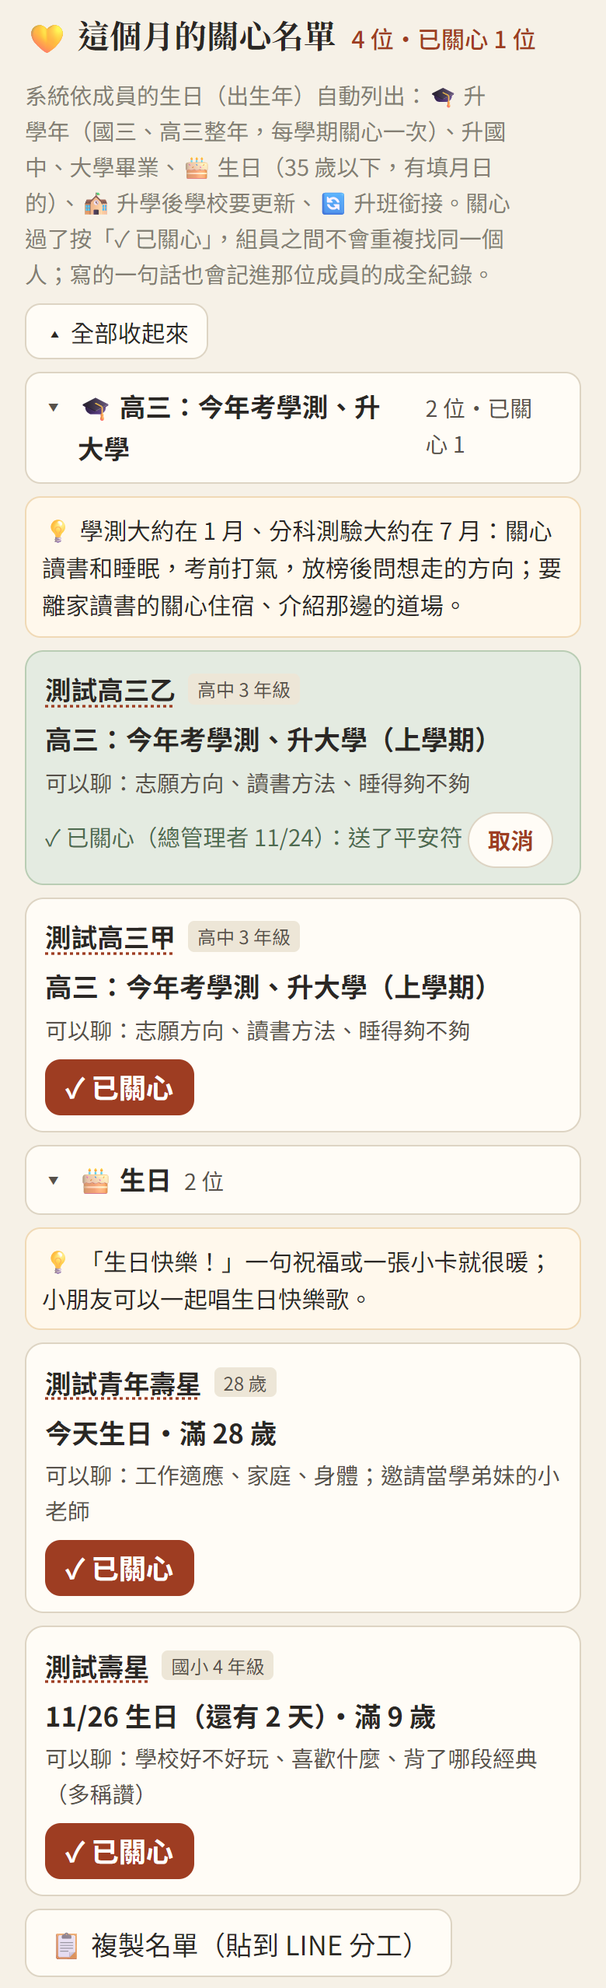
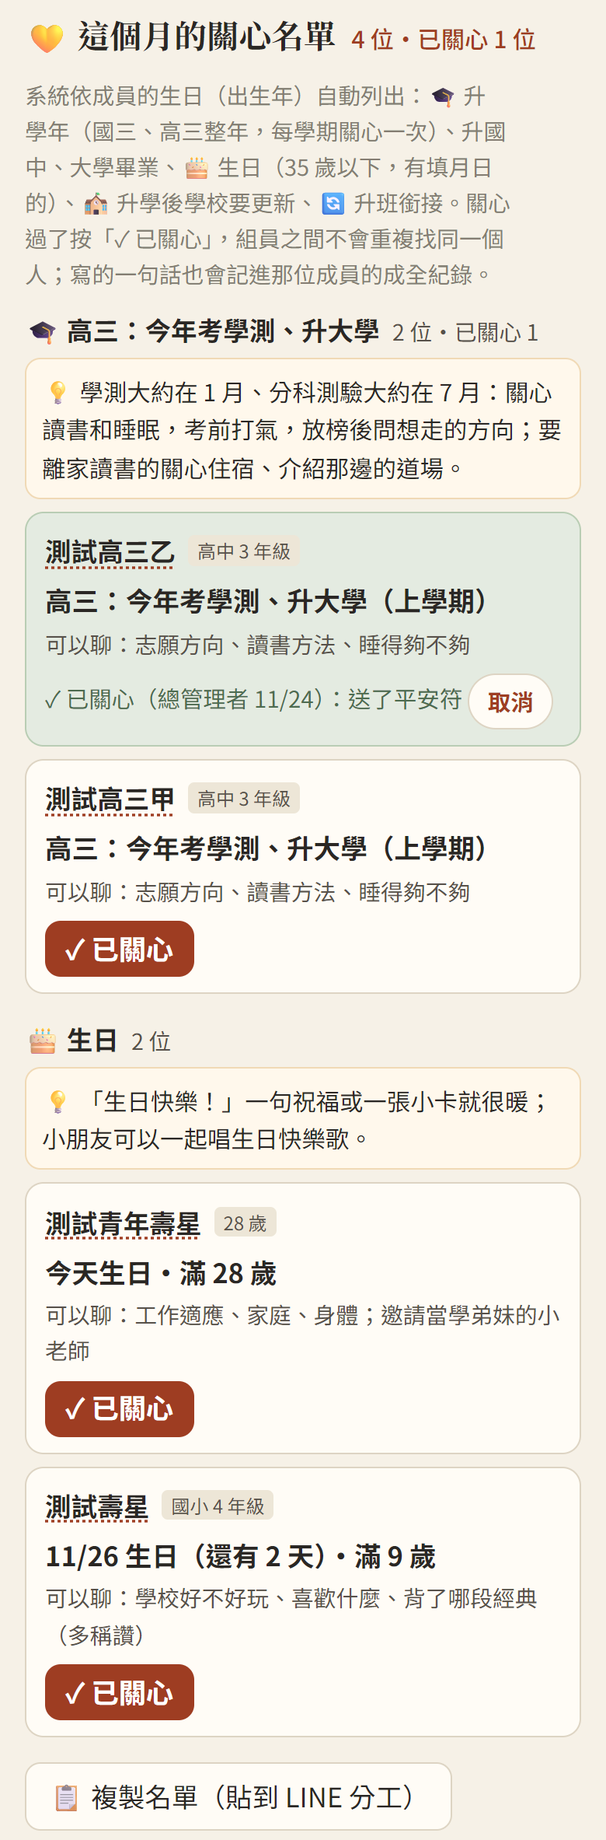
關心名單、關懷名單先顯示 5 位，下面全部打開／收起來

Changed region(s): [[0.0308, 0.0, 0.9846, 0.9873], [0.5231, 0.7096, 0.9231, 0.7713], [0.8615, 0.0, 0.8923, 0.0309]]

diff --git a/index.html b/index.html
@@ -23,7 +23,7 @@
   <link rel="preconnect" href="https://fonts.googleapis.com">
   <link rel="preconnect" href="https://fonts.gstatic.com" crossorigin>
   <link href="https://fonts.googleapis.com/css2?family=Noto+Sans+TC:wght@400;500;700&family=Noto+Serif+TC:wght@600;700&display=swap" rel="stylesheet">
-  <link rel="stylesheet" href="css/app.css?v=20261124d">
+  <link rel="stylesheet" href="css/app.css?v=20261124e">
   <script>try { var t = localStorage.getItem('duty-calendar:text-size'); if (t === 'l' || t === 'xl') document.documentElement.classList.add('text-' + t); } catch (e) {}</script>
 </head>
 <body class="splash-on">
@@ -118,71 +118,71 @@
   <script src="https://cdn.jsdelivr.net/npm/fullcalendar@6.1.21/index.global.min.js"></script>
   <script src="https://cdn.jsdelivr.net/npm/@fullcalendar/core@6.1.21/locales/zh-tw.global.min.js"></script>
   <!-- 改了 js、css 後把 ?v= 的日期換新，手機才不會用到舊的檔案（GitHub Pages 會快取 10 分鐘） -->
-  <script src="js/site.js?v=20261124d"></script>
-  <script src="js/region.js?v=20261124d"></script>
-  <script src="js/config.js?v=20261124d"></script>
-  <script src="js/api.js?v=20261124d"></script>
-  <script src="js/format.js?v=20261124d"></script>
-  <script src="js/member-suggest.js?v=20261124d"></script>
-  <script src="js/newcomer.js?v=20261124d"></script>
-  <script src="js/album.js?v=20261124d"></script>
-  <script src="js/member-file.js?v=20261124d"></script>
-  <script src="js/family.js?v=20261124d"></script>
-  <script src="js/lunar-util.js?v=20261124d"></script>
-  <script src="js/date-list.js?v=20261124d"></script>
-  <script src="js/share.js?v=20261124d"></script>
-  <script src="js/addcal.js?v=20261124d"></script>
-  <script src="js/duty-cache.js?v=20261124d"></script>
-  <script src="js/thanks-board.js?v=20261124d"></script>
-  <script src="js/calendar.js?v=20261124d"></script>
-  <script src="js/confirm.js?v=20261124d"></script>
-  <script src="js/reschedule.js?v=20261124d"></script>
-  <script src="js/signup.js?v=20261124d"></script>
-  <script src="js/duty-images.js?v=20261124d"></script>
-  <script src="js/roster-grid.js?v=20261124d"></script>
-  <script src="js/grid-page.js?v=20261124d"></script>
-  <script src="js/grid-image.js?v=20261124d"></script>
-  <script src="js/thanks-image.js?v=20261124d"></script>
-  <script src="js/celebrate.js?v=20261124d"></script>
-  <script src="js/duty.js?v=20261124d"></script>
-  <script src="js/mine.js?v=20261124d"></script>
-  <script src="js/venue-hours.js?v=20261124d"></script>
-  <script src="js/venue.js?v=20261124d"></script>
-  <script src="js/push.js?v=20261124d"></script>
-  <script src="js/admin.js?v=20261124d"></script>
-  <script src="js/admin-pages.js?v=20261124d"></script>
-  <script src="js/draft-editor.js?v=20261124d"></script>
-  <script src="js/group-fair.js?v=20261124d"></script>
-  <script src="js/admin-duties.js?v=20261124d"></script>
-  <script src="js/admin-accounts.js?v=20261124d"></script>
-  <script src="js/admin-site.js?v=20261124d"></script>
-  <script src="js/region-setup.js?v=20261124d"></script>
-  <script src="js/import-parse.js?v=20261124d"></script>
-  <script src="js/admin-import.js?v=20261124d"></script>
-  <script src="js/admin-people.js?v=20261124d"></script>
-  <script src="js/admin-hq.js?v=20261124d"></script>
-  <script src="js/stats-calc.js?v=20261124d"></script>
-  <script src="js/edu-stats.js?v=20261124d"></script>
-  <script src="js/edu-care.js?v=20261124d"></script>
-  <script src="js/admin-goals.js?v=20261124d"></script>
-  <script src="js/admin-venue.js?v=20261124d"></script>
-  <script src="js/admin-push.js?v=20261124d"></script>
-  <script src="js/tutorial.js?v=20261124d"></script>
-  <script src="js/help.js?v=20261124d"></script>
-  <script src="js/rollcall.js?v=20261124d"></script>
-  <script src="js/stats-export.js?v=20261124d"></script>
-  <script src="js/repair.js?v=20261124d"></script>
-  <script src="js/activity-report.js?v=20261124d"></script>
-  <script src="js/member-stats.js?v=20261124d"></script>
-  <script src="js/year-report.js?v=20261124d"></script>
-  <script src="js/admin-stats.js?v=20261124d"></script>
-  <script src="js/admin-report.js?v=20261124d"></script>
-  <script src="js/admin-recent-signups.js?v=20261124d"></script>
-  <script src="js/admin-notice.js?v=20261124d"></script>
-  <script src="js/admin-notify.js?v=20261124d"></script>
-  <script src="js/history-parse.js?v=20261124d"></script>
-  <script src="js/admin-history.js?v=20261124d"></script>
-  <script src="js/easy-mode.js?v=20261124d"></script>
-  <script src="js/app.js?v=20261124d"></script>
+  <script src="js/site.js?v=20261124e"></script>
+  <script src="js/region.js?v=20261124e"></script>
+  <script src="js/config.js?v=20261124e"></script>
+  <script src="js/api.js?v=20261124e"></script>
+  <script src="js/format.js?v=20261124e"></script>
+  <script src="js/member-suggest.js?v=20261124e"></script>
+  <script src="js/newcomer.js?v=20261124e"></script>
+  <script src="js/album.js?v=20261124e"></script>
+  <script src="js/member-file.js?v=20261124e"></script>
+  <script src="js/family.js?v=20261124e"></script>
+  <script src="js/lunar-util.js?v=20261124e"></script>
+  <script src="js/date-list.js?v=20261124e"></script>
+  <script src="js/share.js?v=20261124e"></script>
+  <script src="js/addcal.js?v=20261124e"></script>
+  <script src="js/duty-cache.js?v=20261124e"></script>
+  <script src="js/thanks-board.js?v=20261124e"></script>
+  <script src="js/calendar.js?v=20261124e"></script>
+  <script src="js/confirm.js?v=20261124e"></script>
+  <script src="js/reschedule.js?v=20261124e"></script>
+  <script src="js/signup.js?v=20261124e"></script>
+  <script src="js/duty-images.js?v=20261124e"></script>
+  <script src="js/roster-grid.js?v=20261124e"></script>
+  <script src="js/grid-page.js?v=20261124e"></script>
+  <script src="js/grid-image.js?v=20261124e"></script>
+  <script src="js/thanks-image.js?v=20261124e"></script>
+  <script src="js/celebrate.js?v=20261124e"></script>
+  <script src="js/duty.js?v=20261124e"></script>
+  <script src="js/mine.js?v=20261124e"></script>
+  <script src="js/venue-hours.js?v=20261124e"></script>
+  <script src="js/venue.js?v=20261124e"></script>
+  <script src="js/push.js?v=20261124e"></script>
+  <script src="js/admin.js?v=20261124e"></script>
+  <script src="js/admin-pages.js?v=20261124e"></script>
+  <script src="js/draft-editor.js?v=20261124e"></script>
+  <script src="js/group-fair.js?v=20261124e"></script>
+  <script src="js/admin-duties.js?v=20261124e"></script>
+  <script src="js/admin-accounts.js?v=20261124e"></script>
+  <script src="js/admin-site.js?v=20261124e"></script>
+  <script src="js/region-setup.js?v=20261124e"></script>
+  <script src="js/import-parse.js?v=20261124e"></script>
+  <script src="js/admin-import.js?v=20261124e"></script>
+  <script src="js/admin-people.js?v=20261124e"></script>
+  <script src="js/admin-hq.js?v=20261124e"></script>
+  <script src="js/stats-calc.js?v=20261124e"></script>
+  <script src="js/edu-stats.js?v=20261124e"></script>
+  <script src="js/edu-care.js?v=20261124e"></script>
+  <script src="js/admin-goals.js?v=20261124e"></script>
+  <script src="js/admin-venue.js?v=20261124e"></script>
+  <script src="js/admin-push.js?v=20261124e"></script>
+  <script src="js/tutorial.js?v=20261124e"></script>
+  <script src="js/help.js?v=20261124e"></script>
+  <script src="js/rollcall.js?v=20261124e"></script>
+  <script src="js/stats-export.js?v=20261124e"></script>
+  <script src="js/repair.js?v=20261124e"></script>
+  <script src="js/activity-report.js?v=20261124e"></script>
+  <script src="js/member-stats.js?v=20261124e"></script>
+  <script src="js/year-report.js?v=20261124e"></script>
+  <script src="js/admin-stats.js?v=20261124e"></script>
+  <script src="js/admin-report.js?v=20261124e"></script>
+  <script src="js/admin-recent-signups.js?v=20261124e"></script>
+  <script src="js/admin-notice.js?v=20261124e"></script>
+  <script src="js/admin-notify.js?v=20261124e"></script>
+  <script src="js/history-parse.js?v=20261124e"></script>
+  <script src="js/admin-history.js?v=20261124e"></script>
+  <script src="js/easy-mode.js?v=20261124e"></script>
+  <script src="js/app.js?v=20261124e"></script>
 </body>
 </html>

diff --git a/tools/help-shots.js b/tools/help-shots.js
@@ -174,7 +174,7 @@ const SHOTS = [
   // 教育統計：各年齡層適合的班（2026/11/23）
   { name: 'edu-age-classes', admin: true, hash: '#/admin/stats', js: `for (const [n, b] of [['測試幼兒', 2021], ['測試小二', 2019], ['測試小四', 2017], ['測試國二', 2013], ['測試高二', 2010], ['測試青年', 1996], ['測試長輩', 1958]]) { try { await Api.admin('adminSaveMember', { member: { name: n, identity: '道親', birth: String(b), groups: {}, active: true } }); } catch (e) {} } location.hash = '#/admin/groups'; await __wait(300); location.hash = '#/admin/stats'; for (let i = 0; i < 30 && !document.querySelector('input[name=scat]'); i++) await __wait(300); [...document.querySelectorAll('input[name=scat]')].find((x) => x.value === '教育').click(); for (let i = 0; i < 30 && !document.querySelector('[data-age-open]'); i++) await __wait(300); document.querySelector('[data-age-open]').click(); await __wait(600);`, clip: `return __box('[data-age-classes]', 6);` },
   // 教育組的關心名單（2026/11/23）：高三、壽星、已關心一位
-  { name: 'edu-care', admin: true, hash: '#/admin/stats', js: `const t = new Date(Date.now() + 8 * 3600000); const md = (d) => String(d.getUTCMonth() + 1).padStart(2, '0') + '-' + String(d.getUTCDate()).padStart(2, '0'); const soon = new Date(t.getTime() + 2 * 86400000); const y = t.getUTCFullYear(); const acad = t.getUTCMonth() >= 8 ? y : y - 1; for (const [n, b] of [['測試高三甲', String(acad - 17)], ['測試高三乙', String(acad - 17)], ['測試壽星', (y - 9) + '/' + md(soon).replace('-', '/')], ['測試青年壽星', (y - 28) + '/' + md(t).replace('-', '/')]]) { try { await Api.admin('adminSaveMember', { member: { name: n, identity: '道親', birth: b, groups: {}, active: true } }); } catch (e) {} } await Api.admin('adminEduCare', { key: '測試高三乙|g12|' + acad + '-' + (md(t) >= '02-01' && md(t) < '09-01' ? 2 : 1), name: '測試高三乙', label: '高三：今年考學測、升大學', note: '送了平安符' }); location.hash = '#/admin/groups'; await __wait(300); location.hash = '#/admin/stats'; for (let i = 0; i < 30 && !document.querySelector('input[name=scat]'); i++) await __wait(300); [...document.querySelectorAll('input[name=scat]')].find((x) => x.value === '教育').click(); for (let i = 0; i < 40 && !document.querySelector('.ecare-group'); i++) await __wait(300); if (!document.querySelector('.ecare-group')) throw new Error('INFO ' + document.querySelector('[data-edu-care]').innerText.slice(0, 200)); document.querySelector('[data-care-all]').click(); await __wait(400);`, clip: `const a = document.querySelector('[data-edu-care]'); a.scrollIntoView(); const r = a.getBoundingClientRect(); const e = [...a.querySelectorAll('.admin-actions')].pop().getBoundingClientRect(); return { x: 0, y: r.top + scrollY - 6, width: innerWidth, height: e.bottom - r.top + 12 };` },
+  { name: 'edu-care', admin: true, hash: '#/admin/stats', js: `const t = new Date(Date.now() + 8 * 3600000); const md = (d) => String(d.getUTCMonth() + 1).padStart(2, '0') + '-' + String(d.getUTCDate()).padStart(2, '0'); const soon = new Date(t.getTime() + 2 * 86400000); const y = t.getUTCFullYear(); const acad = t.getUTCMonth() >= 8 ? y : y - 1; for (const [n, b] of [['測試高三甲', String(acad - 17)], ['測試高三乙', String(acad - 17)], ['測試壽星', (y - 9) + '/' + md(soon).replace('-', '/')], ['測試青年壽星', (y - 28) + '/' + md(t).replace('-', '/')]]) { try { await Api.admin('adminSaveMember', { member: { name: n, identity: '道親', birth: b, groups: {}, active: true } }); } catch (e) {} } await Api.admin('adminEduCare', { key: '測試高三乙|g12|' + acad + '-' + (md(t) >= '02-01' && md(t) < '09-01' ? 2 : 1), name: '測試高三乙', label: '高三：今年考學測、升大學', note: '送了平安符' }); location.hash = '#/admin/groups'; await __wait(300); location.hash = '#/admin/stats'; for (let i = 0; i < 30 && !document.querySelector('input[name=scat]'); i++) await __wait(300); [...document.querySelectorAll('input[name=scat]')].find((x) => x.value === '教育').click(); for (let i = 0; i < 40 && !document.querySelector('.ecare-group'); i++) await __wait(300); if (!document.querySelector('.ecare-group')) throw new Error('INFO ' + document.querySelector('[data-edu-care]').innerText.slice(0, 200)); await __wait(400);`, clip: `const a = document.querySelector('[data-edu-care]'); a.scrollIntoView(); const r = a.getBoundingClientRect(); const e = [...a.querySelectorAll('.admin-actions')].pop().getBoundingClientRect(); return { x: 0, y: r.top + scrollY - 6, width: innerWidth, height: e.bottom - r.top + 12 };` },
   // 📸 活動相簿（2026/11/23）：過去的勤務放三張照片、一個相簿連結
   { name: 'album', hash: null, js: `const res = (await __g({ action: 'getEvents', from: '2026-10-01', to: res0Today() })).data; function res0Today() { const t = new Date(Date.now() + 8 * 3600000); return t.toISOString().slice(0, 10); } const d = res.duties.filter((x) => x.start <= res.today && x.mode !== '公告型').pop(); const mk = (color, text) => { const c = document.createElement('canvas'); c.width = 400; c.height = 300; const g = c.getContext('2d'); g.fillStyle = color; g.fillRect(0, 0, 400, 300); g.fillStyle = '#fff'; g.font = '40px sans-serif'; g.fillText(text, 90, 165); return c.toDataURL('image/jpeg', 0.8).split(',')[1]; }; const have = ((await Api.album(d.id)).dates[d.start] || { photos: [] }).photos.length; if (!have) { for (const [c, t] of [['#9e3d22', '大家合照'], ['#4d6b4f', '佈置會場'], ['#3b6ea5', '活動花絮'], ['#8a6d3b', '感恩分享']]) { const b = mk(c, t); await Api.albumUpload({ dutyId: d.id, date: d.start, by: '測試甲', mime: 'image/jpeg', data: b, thumb: b }); } await Api.albumLink({ dutyId: d.id, date: d.start, by: '測試乙', url: 'https://photos.example.com/album/demo', label: 'LINE 相簿（全部照片）' }); } location.hash = '#/duty/' + encodeURIComponent(d.id) + '?date=' + d.start; await __wait(3000); const s = document.querySelector('#view-duty [data-album]') || document.querySelector('[data-album]'); for (let i = 0; i < 30 && !s.querySelector('.album-thumb'); i++) await __wait(300); s.scrollIntoView(); await __wait(800);`, clip: `const s = document.querySelector('#view-duty [data-album]') || document.querySelector('[data-album]'); return __box(s, 6);` },
   // 新朋友要填佛堂、生日（2026/11/23）

diff --git a/js/edu-care.js b/js/edu-care.js
@@ -178,8 +178,9 @@
   }
 
   /** box：放畫面的地方；opts = { members（已讀好的成員名單）, guard } */
-  // 關心名單每一類可以點開／收起來，也可以一次全部打開（2026/11/24）；記住哪幾類開著，按了已關心重畫也不會跳回去
-  const openGroups = new Set();
+  // 關心名單每一類先顯示 5 位，下面「全部打開」看全部、「收起來」回到每類 5 位（2026/11/24）；按了已關心重畫也保持
+  const FIRST = 5;
+  let showAll = false;
 
   async function mount(box, opts) {
     let d;
@@ -193,15 +194,16 @@
       const groups = build(opts.members, d.today, null, Family.schoolStage, EduStats.AGE_CLASSES);
       const n = groups.reduce((s, g) => s + g.items.length, 0);
       const done = groups.reduce((s, g) => s + g.items.filter((x) => d.care[x.key]).length, 0);
+      const more = groups.reduce((s, g) => s + Math.max(0, g.items.length - FIRST), 0);
+      const hidden = showAll ? 0 : more;
       box.innerHTML = `
         <h3 class="admin-sub">💛 這個月的關心名單<span class="h2-sub">${n ? `${n} 位・已關心 ${done} 位` : '依生日、學齡自動列出'}</span></h3>
         <p class="hint">系統依成員的生日（出生年）自動列出：🎓 升學年（國三、高三整年，每學期關心一次）、升國中、大學畢業、🎂 生日（35 歲以下，有填月日的）、🏫 升學後學校要更新、🔄 升班銜接。關心過了按「✓ 已關心」，組員之間不會重複找同一個人；寫的一句話也會記進那位成員的成全紀錄。</p>
-        ${n ? `<div class="admin-actions no-print ecare-fold"><button type="button" class="btn btn-small" data-care-all>${groups.every((g) => openGroups.has(g.title)) ? '▴ 全部收起來' : '▾ 全部打開'}</button></div>` : ''}
         ${n ? groups.map((g, gi) => { const gd = g.items.filter((x) => d.care[x.key]).length; return `
-          <details class="ecare-group" data-group="${esc(g.title)}"${openGroups.has(g.title) ? ' open' : ''}>
-            <summary class="ecare-head">${g.icon} ${esc(g.title)}<span>${g.items.length} 位${gd ? `・已關心 ${gd}` : ''}</span></summary>
+          <div class="ecare-group">
+            <h4 class="ecare-head">${g.icon} ${esc(g.title)}<span>${g.items.length} 位${gd ? `・已關心 ${gd}` : ''}</span></h4>
             <p class="ecare-topic">💡 ${esc(g.topic)}</p>
-            <ul class="ecare-list">${g.items.map((x, i) => { const c = d.care[x.key]; return `
+            <ul class="ecare-list">${g.items.map((x, i) => { if (!showAll && i >= FIRST) return ''; const c = d.care[x.key]; return `
               <li class="ecare-item${c ? ' is-done' : ''}">
                 <div class="ecare-who"><strong>${opts.personHtml ? opts.personHtml(x.name, x.temple) : esc(x.name)}</strong>${x.temple ? `<small>${esc(x.temple)}</small>` : ''}${x.label ? `<span class="tag">${esc(x.label)}</span>` : ''}</div>
                 <p class="ecare-reason">${esc(x.reason)}</p>
@@ -211,16 +213,15 @@
                   : x.noCare ? `<p class="ecare-talk">${opts.personHtml ? '👆 點名字改學校，改好就會自動拿掉' : '學校改好就會自動拿掉'}</p>`
                   : d.canEdit ? `<button type="button" class="btn btn-small btn-primary" data-care="${gi}|${i}">✓ 已關心</button>` : ''}
               </li>`; }).join('')}</ul>
-          </details>`; }).join('') : '<p class="panel-empty">這個月沒有要特別關心的人（升學、生日、升班都還沒到）。生日在「👥 人員 → 成員」補，填了就會自動列進來。</p>'}
+          </div>`; }).join('') : '<p class="panel-empty">這個月沒有要特別關心的人（升學、生日、升班都還沒到）。生日在「👥 人員 → 成員」補，填了就會自動列進來。</p>'}
+        ${hidden || (showAll && more) ? `<div class="ecare-more no-print"><button type="button" class="btn" data-care-all>${showAll ? '▴ 收起來（每類只看前 5 位）' : `▾ 全部打開（還有 ${hidden} 位）`}</button></div>` : ''}
         <div class="admin-actions no-print">${n ? '<button type="button" class="btn" data-care-copy>📋 複製名單（貼到 LINE 分工）</button>' : ''}</div>`;
       const allBtn = box.querySelector('[data-care-all]');
-      const syncAll = () => { if (allBtn) allBtn.textContent = groups.every((g) => openGroups.has(g.title)) ? '▴ 全部收起來' : '▾ 全部打開'; };
-      box.querySelectorAll('details[data-group]').forEach((el) => el.addEventListener('toggle', () => { if (el.open) openGroups.add(el.dataset.group); else openGroups.delete(el.dataset.group); syncAll(); }));
       if (allBtn) allBtn.addEventListener('click', () => {
-        const open = !groups.every((g) => openGroups.has(g.title));
-        groups.forEach((g) => (open ? openGroups.add(g.title) : openGroups.delete(g.title)));
-        box.querySelectorAll('details[data-group]').forEach((el) => { el.open = open; });
-        syncAll();
+        const wasAll = showAll;
+        showAll = !showAll;
+        draw();
+        if (wasAll) box.scrollIntoView({ block: 'start' });
       });
       const pick = (v) => { const [gi, i] = v.split('|').map(Number); return groups[gi].items[i] && Object.assign({ group: groups[gi] }, groups[gi].items[i]); };
       box.querySelectorAll('[data-care]').forEach((b) => b.addEventListener('click', () => {

diff --git a/js/admin-stats.js b/js/admin-stats.js
@@ -549,10 +549,11 @@
         <section class="stats-section care-section">
           <h3 class="admin-sub">💛 關懷名單<span class="h2-sub">過去一年來過 3 次以上，最近 ${state.careDays} 天沒有出席</span></h3>
           <div class="seg care-days no-print">${[30, 60, 90].map((d) => `<label class="seg-item"><input type="radio" name="careDays" value="${d}"${d === state.careDays ? ' checked' : ''}><span>${d} 天</span></label>`).join('')}</div>
-          ${list.length ? `<details class="care-fold" data-care-fold${state.careOpen ? ' open' : ''}><summary><b>${list.length} 位</b><span class="care-fold-tip">${state.careOpen ? '（點這裡收起來）' : '（點這裡全部打開）'}</span></summary><ul class="care-list">${list.map((v, i) => `
+          ${list.length ? `<ul class="care-list">${list.slice(0, state.careOpen ? list.length : 5).map((v, i) => `
             <li data-away="${i}"><span class="care-name">${esc(v.name)}${v.identity ? ` <span class="tag">${esc(v.identity)}</span>` : ''}</span>
               <span class="care-meta">最後一次：${esc(Fmt.shortDate(v.last))} ${esc(v.lastName)}（${v.daysAgo} 天前）・過去一年 ${v.count} 次</span>
-              <span class="care-act" data-away-act></span></li>`).join('')}</ul></details>
+              <span class="care-act" data-away-act></span></li>`).join('')}</ul>
+          ${list.length > 5 ? `<div class="care-more no-print"><button type="button" class="btn" data-care-more>${state.careOpen ? '▴ 收起來（只看前 5 位）' : `▾ 全部打開（還有 ${list.length - 5} 位）`}</button></div>` : ''}
           <div class="admin-actions no-print"><button type="button" class="btn" data-care-copy>複製關懷名單</button></div>` : '<p class="muted">沒有需要關懷的人 😊</p>'}
           <p class="hint">可以打電話或在 LINE 問候一下，邀請他們回來 🙏 問候過了按「✓ 已關心」記一句，大家就不會重複找同一位，以前誰關心過、說了什麼也看得到（也會記進那位成員的成全紀錄）。（只算出席、非陪同的紀錄）</p>
         </section>`;
@@ -576,8 +577,8 @@
 
   function bindCare(body, events, today, rerender) {
     body.querySelectorAll('input[name=busyMin]').forEach((r) => r.addEventListener('change', () => { state.busyMin = Number(r.value); keepPlace(body, '.busy-section', rerender); }));
-    const fold = body.querySelector('[data-care-fold]');
-    if (fold) fold.addEventListener('toggle', () => { state.careOpen = fold.open; fold.querySelector('.care-fold-tip').textContent = fold.open ? '（點這裡收起來）' : '（點這裡全部打開）'; });
+    const more = body.querySelector('[data-care-more]');
+    if (more) more.addEventListener('click', () => { state.careOpen = !state.careOpen; keepPlace(body, '.care-section', rerender); });
     body.querySelectorAll('input[name=careDays]').forEach((r) => r.addEventListener('change', () => { state.careDays = Number(r.value); rerender(); }));
     const list = C.careList(events, today, state.careDays, 3);
     if (list.length && body.querySelector('[data-away]')) awayCare(body, list);

diff --git a/css/app.css b/css/app.css
@@ -2963,15 +2963,9 @@ button.veg-chip:hover { border-color: var(--ok); }
 .age-outside { font-size: .9rem; color: var(--ink-2); margin: 4px 0 8px; }
 .age-others { margin: 12px 0 6px; display: flex; flex-wrap: wrap; gap: 4px 6px; align-items: center; }
 /* 教育組的關心名單（2026/11/23） */
-.ecare-group { margin: 8px 0; }
-.ecare-head { display: flex; align-items: baseline; gap: 8px; margin: 0 0 4px; font-size: 1.05rem; font-weight: 700; cursor: pointer; padding: 8px 10px; border: 1px solid var(--line); border-radius: 10px; background: var(--card); list-style: none; }
-.ecare-head::-webkit-details-marker { display: none; }
-.ecare-head::before { content: '▸'; color: var(--ink-2); }
-.ecare-group[open] > .ecare-head::before { content: '▾'; }
-.ecare-group[open] > .ecare-head { margin-bottom: 8px; }
-.ecare-fold { margin: 8px 0 0; }
-.care-fold > summary { cursor: pointer; padding: 8px 10px; border: 1px solid var(--line); border-radius: 10px; background: var(--card); margin: 8px 0; }
-.care-fold-tip { color: var(--ink-2); font-size: .9rem; margin-left: 4px; }
+.ecare-group { margin: 12px 0 16px; }
+.ecare-head { display: flex; align-items: baseline; gap: 8px; margin: 0 0 4px; font-size: 1.05rem; }
+.ecare-more, .care-more { margin: 10px 0 4px; }
 .ecare-head span { font-weight: 400; font-size: .9rem; color: var(--ink-2); }
 .ecare-topic { margin: 0 0 8px; padding: 8px 10px; border-radius: 10px; background: #fff8ec; border: 1px solid #f0d9b5; font-size: .95rem; }
 .ecare-list { list-style: none; padding: 0; margin: 0; display: grid; gap: 8px; grid-template-columns: repeat(auto-fill, minmax(260px, 1fr)); }

diff --git a/docs/spec.md b/docs/spec.md
@@ -547,4 +547,4 @@
 - **⚖ 人力負荷**：統計（一般、道務、教育）關懷名單下面「⚖ 最近 30 天排比較多次的人」：最近 30 天（到今天）出勤 6／8／10 次以上（預設 8）的人，次數、天數、做了哪些（前 4 項）；標題寫有來的人數和平均次數（StatsCalc.busyList）。
 - **📷 活動隔天提醒上傳照片**：勤務表單多「📷 活動隔天提醒上傳照片」（勤務分頁最後新增「提醒上傳照片」欄，是／空白；同名一起改時照各筆原本的）。每天早上 7 點的排程（worker cron today）呼叫 albumRemind_：最後一天是昨天、勾了的勤務，推播給那段期間有報名（沒取消、不是未到）、手機開了提醒且填了名字（推播分頁「名字」欄）的人：「📷「名稱」辛苦了／有拍照的話，可以上傳到活動相簿，大家都看得到 🙏」，點了到那個勤務最後一天；同一支手機一天只收一則（好幾個活動寫在一起）；指令碼屬性 ALBUM_REMIND_DAY 記今天送過了，不重送。
 - **📄 年度報表**：統計下面的按鈕「📄 年度報表」（js/year-report.js）蓋在畫面上：可以選年度；區名＋民國年度、四格總覽（場次、出勤人次、參與的家人、道親佔比，各附去年）、和去年比多少 %、各類別（場次、人次、人數、道親佔比、去年人次）、每個月（場次、人次＋長條、道親佔比；還沒到的月份寫 —）、人次最多的 10 個活動（照統計的活動歸類合併）、感謝名單（出勤最多的 15 位）。今年還沒過完時，去年也只算到同一天。「🖨 列印／存成 PDF」只印報表；「📋 複製文字」貼 LINE。
-- **名單可以全開／收起來**：教育的「💛 這個月的關心名單」每一類是可以點開的標題（寫幾位、已關心幾位），一開始全部收起來；上面「▾ 全部打開／▴ 全部收起來」一次切換（記住哪幾類開著，按已關心重畫不跳回去，換頁後回到收起來）。統計的「💛 關懷名單」整份包成一個可以點開的區塊，平常收起來只寫幾位，「（點這裡全部打開）」看全部；換天數時保持開或關。
+- **名單先顯示 5 位**：教育的「💛 這個月的關心名單」每一類先顯示前 5 位，有超過的話所有類別下面一個「▾ 全部打開（還有 N 位）」，打開後變「▴ 收起來（每類只看前 5 位）」（按已關心重畫保持；換頁回到 5 位）。統計的「💛 關懷名單」先顯示前 5 位，超過的話下面「▾ 全部打開（還有 N 位）」／「▴ 收起來（只看前 5 位）」；換天數保持。複製名單一律複製全部。
